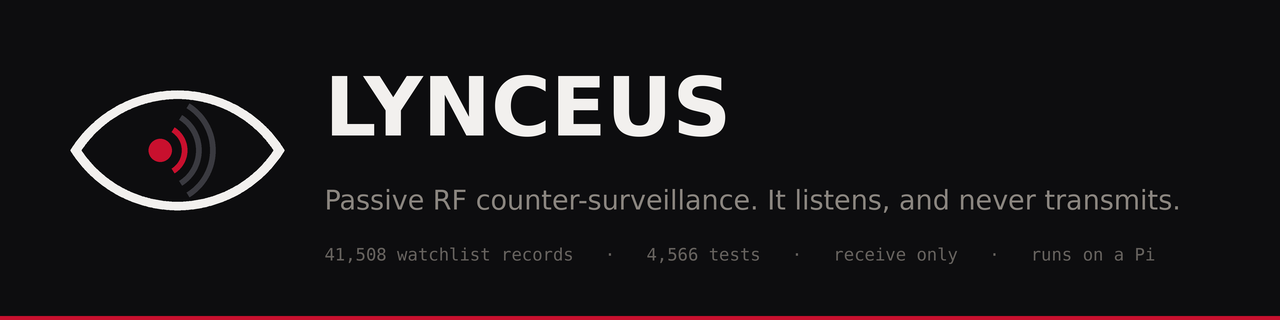
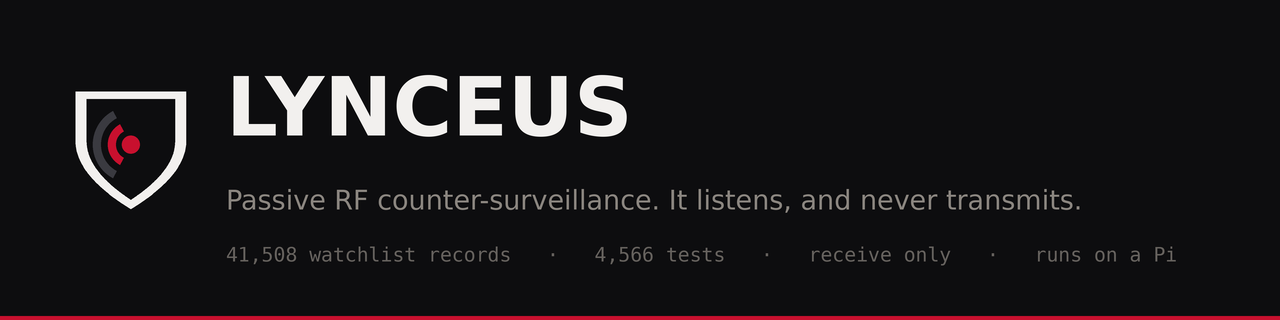
docs(assets): the mark is a shield now, because the eye belonged to Argus
The first version was an eye with signal arcs in it. Too close to the Argus
mark, which is an eye holding concentric rings. Argus keeps the eye: it was the
hundred-eyed watchman, and an eye is right for a catalogue of things already
seen.

This is a shield holding an arriving signal. It is a structural sibling rather
than a visual one, and shares none of the Argus shapes. Argus is one container
(an eye) holding a motif (rings, catalogued). This is one container (a shield,
because Warden is in the name) holding a motif (arcs sweeping in toward a dot).

The arcs open LEFT and terminate at the dot, so they read as a signal arriving
rather than one being sent. That is the product in one mark.

Three attempts are recorded in the generator docstring so nobody repeats them:

    lighthouse         emits light, which is the opposite of the product
    transmission mast  the universal broadcast icon, same error less obviously
    tower + arcs       two objects competing in a square; measured to mush
                       below 64px

That last one is why the mark was redesigned square-first. 32px decides whether
a mark works, and it was tested there before anything else was tuned. Two arcs
rather than three, for the same reason.

Banner geometry moved with it: the shield is narrower than the vesica was, so
the text column starts closer in.

diff --git a/scripts/make_banner.py b/scripts/make_banner.py
@@ -2,15 +2,21 @@
 """
 README banner and logo mark for Lynceus Warden.
 
-The mark is a sibling to the Argus one and deliberately not a copy. Argus is a
-database, so its eye holds closed concentric rings: a thing that has been
-catalogued. Lynceus is a live receiver, so its iris is three arcs opening to the
-right, the glyph for a transmission arriving. The eye is narrower than the Argus
-vesica because Lynceus was the Argonaut with the sharpest sight, and because a
-narrower lens reads as looking rather than merely open.
+The mark is a shield holding an arriving signal. It is a deliberate structural
+sibling to the Argus mark and shares none of its shapes: Argus is one container
+(an eye) holding a motif (concentric rings, a thing already catalogued), and
+this is one container (a shield, because Warden is in the name) holding a motif
+(arcs sweeping in toward a point).
 
-The arcs point INTO the eye, never out of it. That is the whole product in one
-mark: it receives, it never transmits.
+The arcs open to the LEFT and terminate at the dot, so they read as a signal
+arriving rather than one being sent. That is the whole product in one mark: it
+receives, it never transmits.
+
+Three earlier attempts are worth not repeating. An eye was too close to Argus.
+A lighthouse emits, which is the opposite of the product. A transmission mast
+is the universal icon for broadcasting, and reads as exactly the wrong thing.
+A tower plus separate arcs is two objects competing in a square and turned to
+mush below 64px; the mark was redesigned square-first after measuring that.
 
 PNG rather than SVG on purpose. GitHub sanitises SVG in markdown, and text in an
 SVG depends on fonts the reader may not have. A PNG renders identically
@@ -21,7 +27,6 @@ soft on a HiDPI screen.
 Usage:
     python3 scripts/make_banner.py
 """
-import math
 import os
 
 from PIL import Image, ImageDraw, ImageFont
@@ -50,56 +55,41 @@ def font(kind, size):
     return ImageFont.load_default()
 
 
-def _vesica(cx, cy, w, hgt, n=160):
-    """Points of a true vesica: two circular arcs meeting at (+-w, 0).
-
-    The upper arc passes through (-w, 0), (0, -hgt), (w, 0). A circle through
-    those three points has centre (0, k) with k = (w^2 - hgt^2) / (2 * hgt).
-    """
-    k = (w * w - hgt * hgt) / (2.0 * hgt)
-    r = k + hgt
-    a0 = math.atan2(0 - k, -w)
-    a1 = math.atan2(0 - k, w)
-    top, bot = [], []
+def _shield(cx, cy, w, h, n=90):
+    """Heater shield: flat top, straight upper flanks, a curve sweeping to a tip."""
+    pts = [(cx - w, cy - h), (cx + w, cy - h)]
     for i in range(n + 1):
-        t = a0 + (a1 - a0) * i / n
-        x, y = cx + r * math.cos(t), cy + k + r * math.sin(t)
-        top.append((x, y))
-        bot.append((x, 2 * cy - y))
-    return top + bot[::-1]
+        t = i / n
+        pts.append((cx + w * (1 - t * t), cy - h + (2 * h) * (0.42 + 0.58 * t)))
+    for i in range(n + 1):
+        t = 1 - i / n
+        pts.append((cx - w * (1 - t * t), cy - h + (2 * h) * (0.42 + 0.58 * t)))
+    return pts
 
 
 def draw_mark(d, cx, cy, r, hole=GROUND, outline=TEXT):
-    """The receiving-eye mark, centred on (cx, cy) with iris radius r.
+    """The shield mark, centred on (cx, cy) with radius r.
 
-    The lens is two FILLED vesicas, outer in `outline` and inner in the
-    background, rather than a stroked polyline. Stroking a dense polyline leaves
-    visible lumps at this scale; filling does not. That trick is inherited from
-    the Argus mark and is the reason both read cleanly at 32px.
+    The shield is two FILLED polygons, outer in `outline` and inner in the
+    background, rather than a stroked outline. Stroking a dense polyline leaves
+    visible lumps at this scale; filling does not.
+
+    Two arcs, not three. A third was measured turning to mush at 32px, which is
+    the size that decides whether a mark works.
     """
-    lw = max(2.0, r * 0.150)
-    w, hh = r * 1.86, r * 1.04            # narrower than Argus: a sharper eye
-    d.polygon(_vesica(cx, cy, w, hh), fill=outline)
-    d.polygon(_vesica(cx, cy, w - lw * 1.30, hh - lw), fill=hole)
+    lw = max(2.0, r * 0.155)
+    w, h = r * 0.96, r * 1.02
+    d.polygon(_shield(cx, cy, w, h), fill=outline)
+    d.polygon(_shield(cx, cy - lw * 0.10, w - lw * 1.25, h - lw * 0.95), fill=hole)
 
-    # Three arcs opening RIGHT: an incoming transmission, not an emitted one.
-    # Drawn as arc segments rather than full ellipses so the eye reads as
-    # receiving a direction, which is what separates this mark from the Argus
-    # one at a glance.
-    # The pupil sits LEFT of centre and the arcs sweep in toward it, so the
-    # composition reads as a signal arriving rather than three shapes parked
-    # side by side. Centring the pupil made the arcs look like decoration.
-    px = cx - r * 0.30
-    for frac, col in [(0.96, RING), (0.72, RING), (0.47, ACCENT)]:
-        rr = r * frac
-        d.arc(
-            [px - rr, cy - rr, px + rr, cy + rr],
-            start=-58, end=58,
-            fill=col, width=max(2, int(r * 0.10)),
-        )
+    by = cy - r * 0.10
+    for frac, col in [(0.66, RING), (0.40, ACCENT)]:
+        q = r * frac
+        d.arc([cx - q, by - q, cx + q, by + q], start=118, end=242,
+              fill=col, width=max(3, int(r * 0.145)))
 
-    pr = r * 0.20
-    d.ellipse([px - pr, cy - pr, px + pr, cy + pr], fill=ACCENT)
+    pr = r * 0.155
+    d.ellipse([cx - pr, by - pr, cx + pr, by + pr], fill=ACCENT)
 
 
 def make_logo(path, size=512, outline=(42, 42, 48)):
@@ -136,10 +126,10 @@ def make_banner(path, w=1280, h=320):
 
     pad = ww * 0.055
     r = hh * 0.180
-    cx, cy = pad + r * 1.86, hh * 0.47
+    cx, cy = pad + r * 1.05, hh * 0.47
     draw_mark(d, cx, cy, r)
 
-    x = cx + r * 2.55
+    x = cx + r * 1.65
     avail = ww - x - pad                  # hard right bound; nothing may exceed it
 
     tagline = "Passive RF counter-surveillance. It listens, and never transmits."
